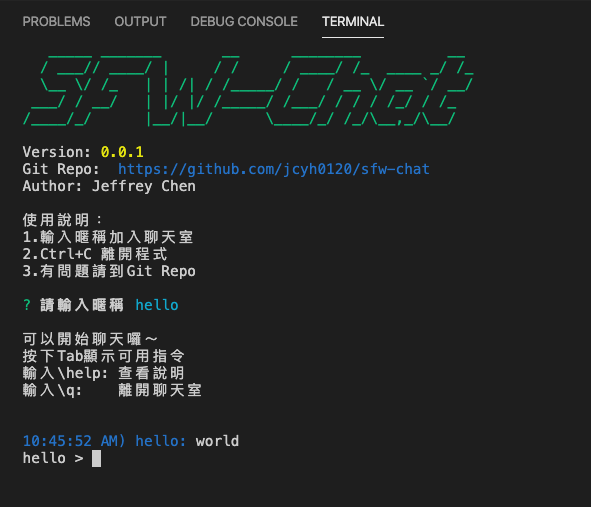
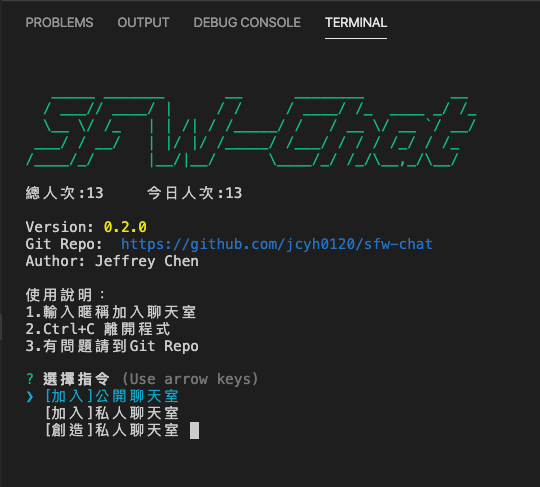
v0.2.0 release note.

diff --git a/README.md b/README.md
@@ -6,12 +6,19 @@ A SFW (Save For Work) command line chat room
 
 ![demo](./demo.png)
 
+### Release Note
+- v0.2.0
+    - [新增] 建立/加入私人聊天室
+    - [新增] 聊天室線上使用者人數，使用者名單
+    - [新增] 聊天室指令 /roomID, /users
+    - [完整更新內容](./release.md)
+
 ### Downloads
-- OSX: [sfw-chat-macos-v0.0.1](https://firebasestorage.googleapis.com/v0/b/sfw-chat.appspot.com/o/release%2Fv0_0_1%2Fsfw-chat-macos-v0.0.1.zip?alt=media&token=93118694-6a76-49dd-9511-6318c9814891)
+- OSX: [sfw-chat-macos-v0.2.0](https://firebasestorage.googleapis.com/v0/b/sfw-chat.appspot.com/o/release%2Fv0_2_0%2Fsfw-chat-macos-v0.2.0.zip?alt=media&token=94c2618b-e97b-41f9-93b5-0c724746c215)
 
-- Windows: [sfw-chat-win-v0.0.1](https://firebasestorage.googleapis.com/v0/b/sfw-chat.appspot.com/o/release%2Fv0_0_1%2Fsfw-chat-win-v0.0.1.exe.zip?alt=media&token=55e6d420-0565-4e30-82c1-f56e69502433)
+- Windows: [sfw-chat-win-v0.2.0](https://firebasestorage.googleapis.com/v0/b/sfw-chat.appspot.com/o/release%2Fv0_2_0%2Fsfw-chat-win-v0.2.0.exe.zip?alt=media&token=5a46d9b8-b839-483b-a1dc-00d2606c30e7)
 
-- Linux: [sfw-chat-linux-v0.0.1](https://firebasestorage.googleapis.com/v0/b/sfw-chat.appspot.com/o/release%2Fv0_0_1%2Fsfw-chat-linux-v0.0.1.zip?alt=media&token=92fa97bb-6f65-4818-8584-78a85d06ef68)
+- Linux: [sfw-chat-linux-v0.2.0](https://firebasestorage.googleapis.com/v0/b/sfw-chat.appspot.com/o/release%2Fv0_2_0%2Fsfw-chat-linux-v0.2.0.zip?alt=media&token=7914df12-9044-44b4-8b0d-dae4afa351f9)
 
 
 ### Troubleshooting

diff --git a/release.md b/release.md
@@ -1,0 +1,16 @@
+# 版本更新
+
+## v0.2.0
+
+- [新增] 建立/加入私人聊天室
+- [新增] 聊天室線上使用者人數，使用者名單
+- [新增] 聊天室指令 /roomID, /users
+- [修改] 聊天室指令 prefix \ => 改為 / 
+    - ex: /q 離開聊天室 (不要打錯囉)
+- [修改] 空白內容按下 Enter 會送出的問題
+
+
+## v0.0.1
+
+- 公開聊天室基本功能
+
